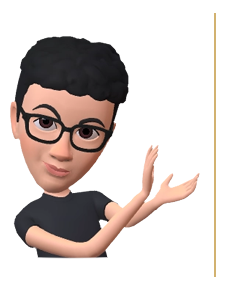
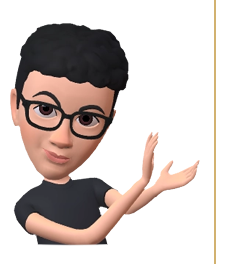
Fixed link and image

diff --git a/README.md b/README.md
@@ -1,11 +1,12 @@
-<p style="text-align: justify; text-indent: 2em">
 <img src="header.png" style="float: left;  margin: 0 10px 10px 0;" /> 
+
+![GitHub stats](https://github-readme-stats.vercel.app/api?username=catb1t&count_private=true&show_icons=false&theme=ayu-mirage&hide_title=true)
+
+<p style="float: right;">
 <h2>Hi There! 👋 , I'm Mostafa Hani</h2>
 Currently studying Computer Sciecne & Machine Learning at <a href="Cairo University">Cairo University</a>. 
 Interested in eSports & music and hoping to make it better for everyone using machine learning.
 </p>
-
-![GitHub stats](https://github-readme-stats.vercel.app/api?username=catb1t&count_private=true&show_icons=false&theme=ayu-mirage&hide_title=true)
 
 <br />
 <div align="center">
